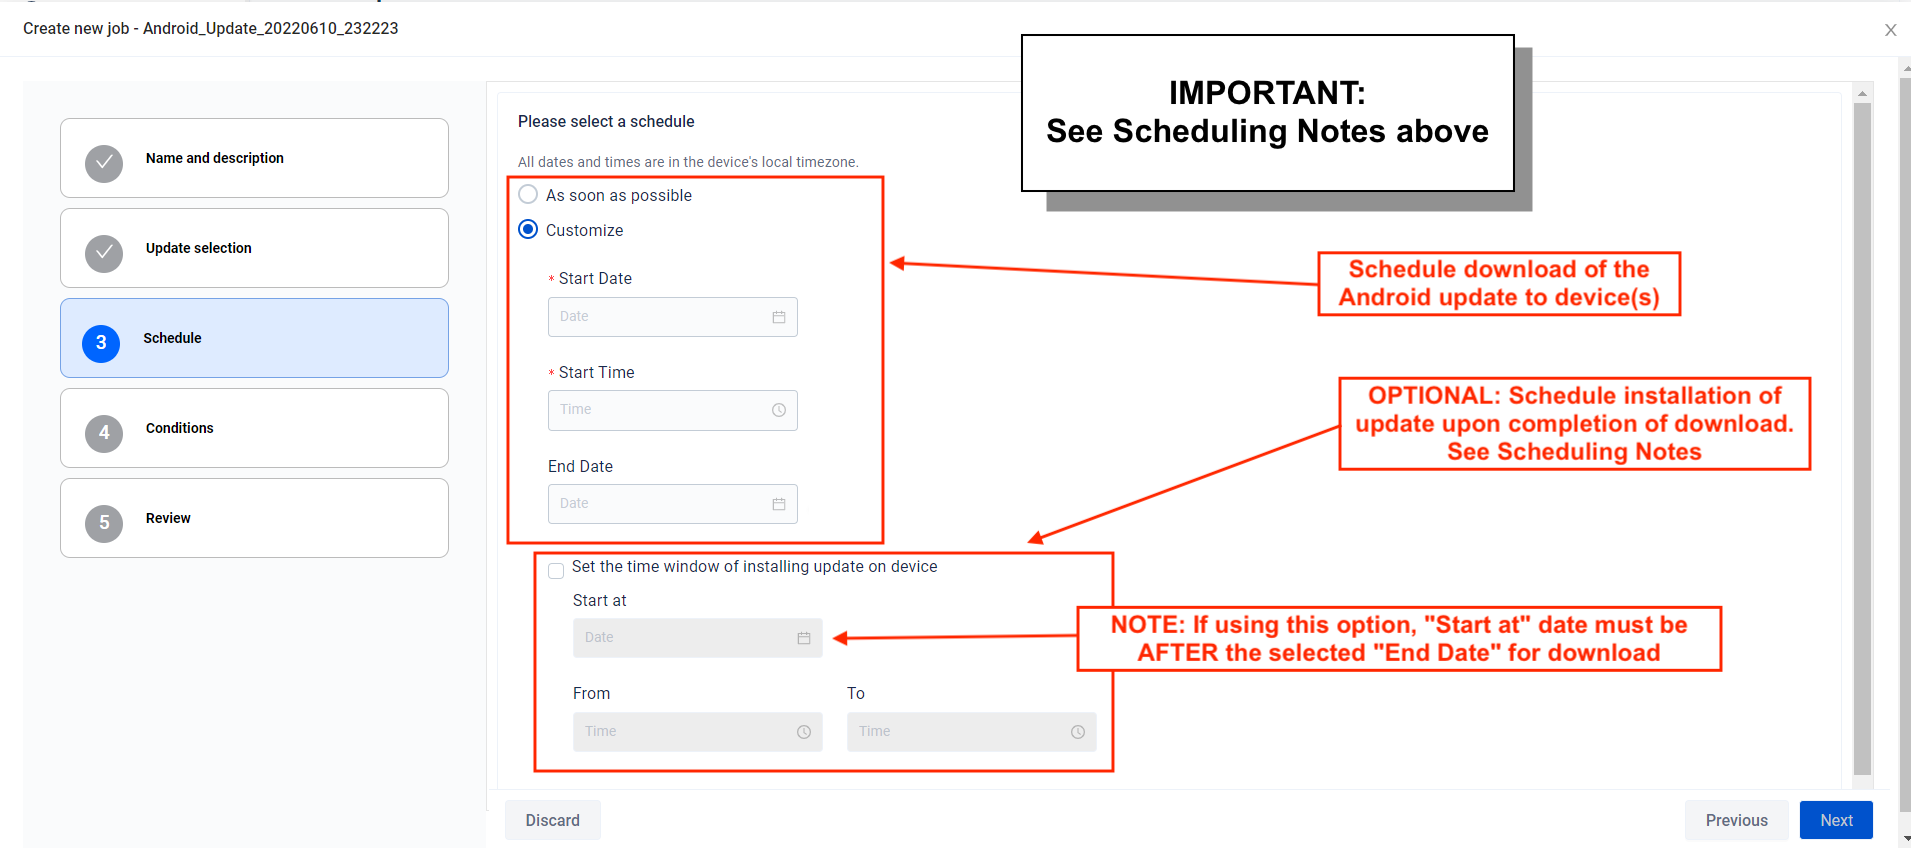
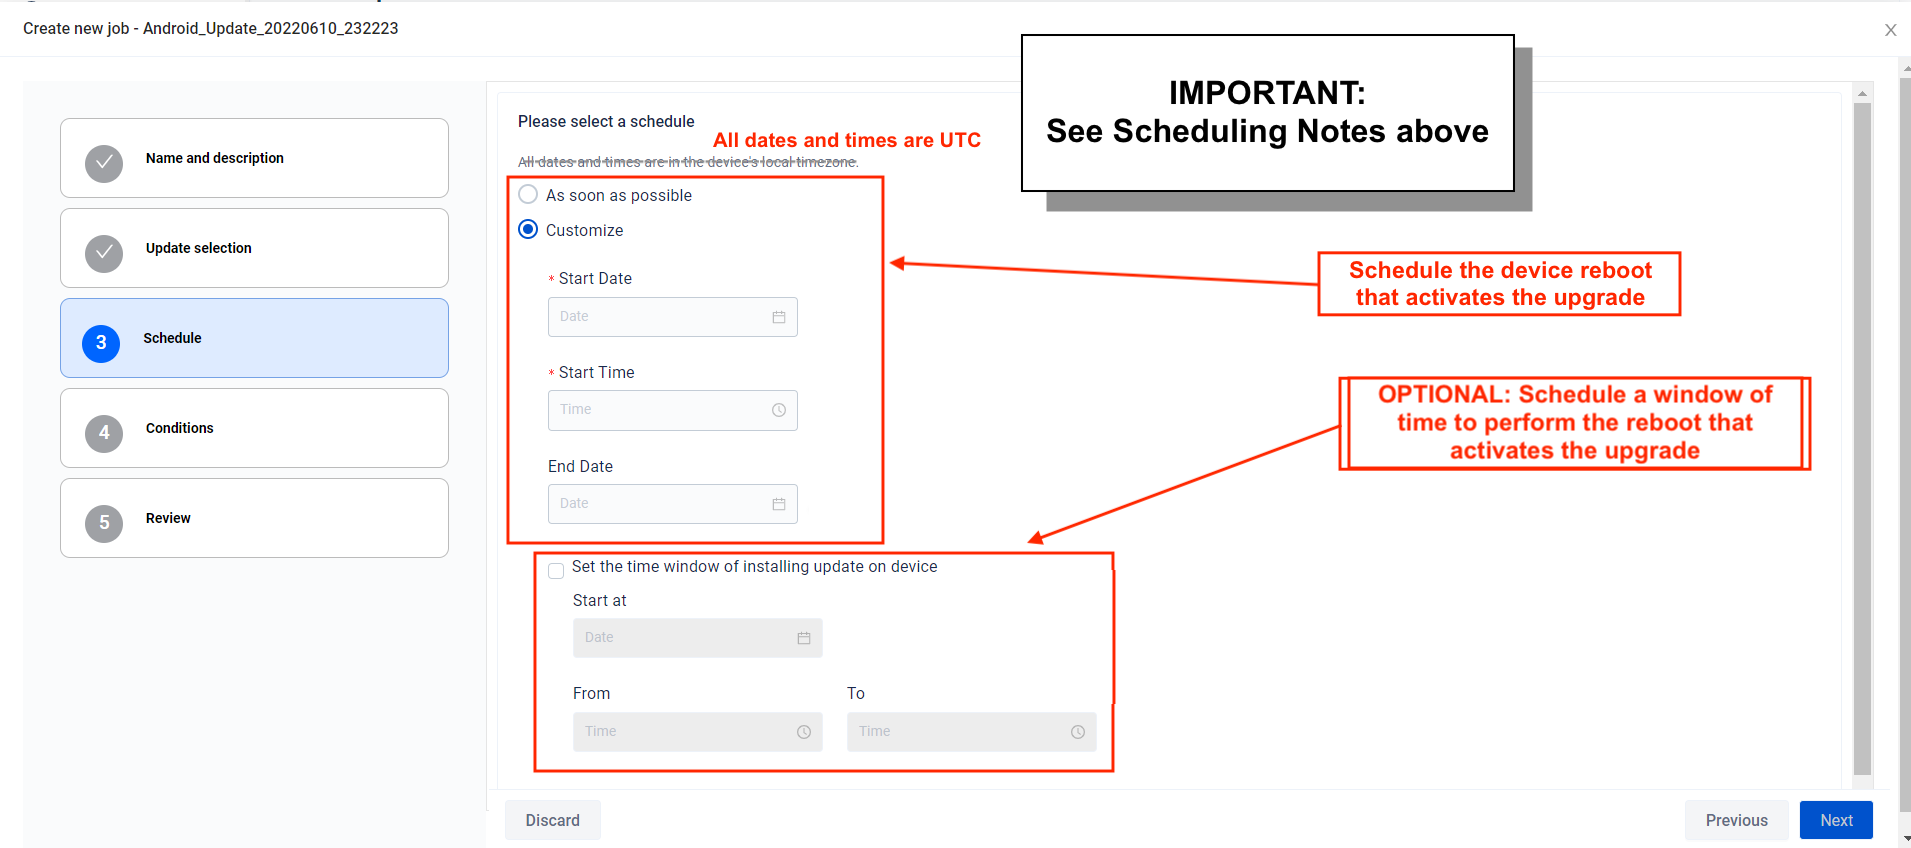
[TUT-108811; SPR-56835] ZDNA 5.4 updates, per eng

diff --git a/zebradna/5-4/usage/index.html b/zebradna/5-4/usage/index.html
@@ -1330,7 +1330,7 @@ Android Updates
 
 <li>Created By Device</li>
 
-<li>Created By S/N1</li>
+<li>Created By S/N</li>
 
 <li><strong>Last Log-In</strong></li>
 
@@ -1346,7 +1346,7 @@ Android Updates
 <h3 id="exportuserdata" class="anchor"><a class="heading-anchor" href="#exportuserdata"><span></span></a>Export User Data</h3>
 
 <ol>
-<li><p><strong>On Device Users page, click the "Export" button</strong> to begin.<br>
+<li><p><strong>On Device Users page, click the "Export" button</strong> to begin data collection.<br>
 Status changes from "In-Progress" to "Completed" once data collection for the current job is complete.<br>
 <strong>Click "Download"</strong> on the desired job to continue. 
 <img alt="image" style="height:350px" src="54_export_device_users.jpg">
@@ -1354,7 +1354,7 @@ Status changes from "In-Progress" to "Completed" once data collection for the cu
 <em>Click image to enlarge; ESC to exit.</em>
 <br></p></li>
 
-<li><p>Navigate to the desired file location and <strong>click "Save" button</strong> (not shown).<br> <br>
+<li><p>Navigate to the desired file location and <strong>click "Save" button</strong> (not shown).
 <img alt="image" style="height:150px" src="54_export_saveAs.jpg">
 <em>Click image to enlarge; ESC to exit</em>.
 <br></p></li>
@@ -1616,7 +1616,7 @@ When finished uploading files <strong>click Next</strong> to proceed: <br>
 <p>To upgrade an app that has already been added to a "My Collection" repository, refer to <a href="#addappstocollection">Add Apps to Collection</a> and click the "Add Version" button to create a Setup Profile. Then deploy as usual.  </p>
 
 <blockquote>
-  <p><i class="fa fa-exclamation-triangle" style="color:#FFA500;"></i> DNA Cloud cannot "downgrade" an app. To install an older version of a previously installed app, <a href="#createappsetupprofile">create an App Setup Profile</a> that includes the desired version and deploy it. </p>
+  <p><i class="fa fa-exclamation-triangle" style="color:#FFA500;"></i> DNA Cloud cannot "downgrade" an app. To install an older version of a previously installed app, <a href="#createappsetupprofile">create an App Setup Profile</a> that includes the desired version. Then deploy it as usual. </p>
 </blockquote>
 
 <hr>
@@ -1877,14 +1877,25 @@ When all updates are selected, <strong>click "Next" to proceed</strong>:
 &nbsp;&nbsp;&nbsp;<b><font size="3" color="Black">Scheduling Notes:</font></b><br>
 &nbsp;&nbsp;&nbsp;&nbsp;&nbsp;&nbsp;• <strong>Select "As soon as possible" to begin the update immediately</strong> upon starting the job (or as soon as devices become available).<br>
 &nbsp;&nbsp;&nbsp;&nbsp;&nbsp;&nbsp;• <strong>Download attempts interrupted due to network or other issues are repeated every 24 hours</strong> for 28 days before reporting failure. <br>
-&nbsp;&nbsp;&nbsp;&nbsp;&nbsp;&nbsp;• <strong>Unscheduled installations begin within 24 hours</strong> of a <u><b><i>completed</i></b></u> download.<br>
-&nbsp;&nbsp;&nbsp;&nbsp;&nbsp;&nbsp;• <strong>If setting an installation window, the "Start at" date must be <u><i>after</i></u> the "End Date"</strong> selected in the download section.<br>
-<br> 
+&nbsp;&nbsp;&nbsp;&nbsp;&nbsp;&nbsp;• <strong>Unscheduled installations begin within 24 hours</strong> of deployment.<br></p></li>
+</ol>
+
+<blockquote>
+  <p><i class="fa fa-check-circle" style="color:#27AE60;"></i> All dates and times are UTC. </p>
+</blockquote>
+
+<!-- 5/15/25 removed per eng
+&nbsp;&nbsp;&nbsp;&nbsp;&nbsp;&nbsp;• **If setting an installation window, the "Start at" date must be <u><i>after</i></u> the "End Date"** selected in the download section.<br>
+
+ -->
+
+<p><br> 
 After setting desired schedule, <strong>click "Next"</strong> to proceed:
 <img alt="image" style="height:350px" src="android_update_06a.png">
 <em>Click image to enlarge; ESC to exit.</em>
-<br></p></li>
+<br></p>
 
+<ol>
 <li><p><strong>Select the conditions under which to perform the update</strong> and whether to allow the device user to postpone. <br>
 <i class="fa fa-exclamation-triangle" style="color:#FFA500;"></i> Updates begin only <strong>when ALL conditions are met</strong> on a given device.<br> <br>
 <strong>Click "Next"</strong> to proceed:
